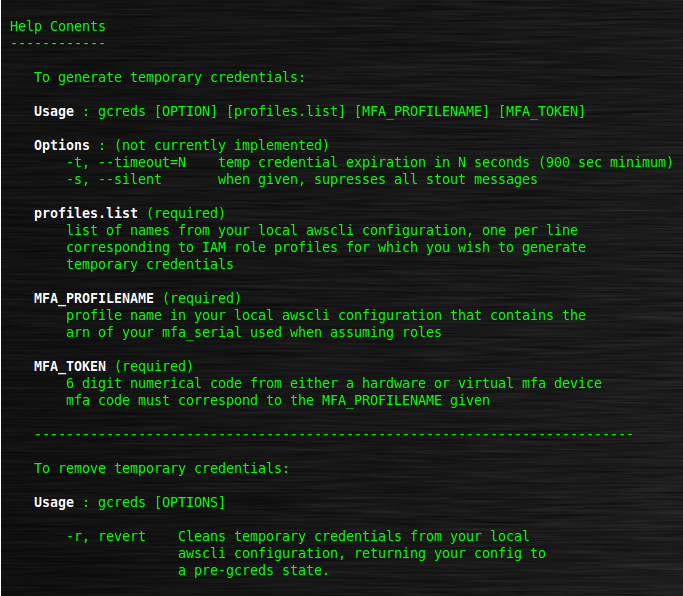
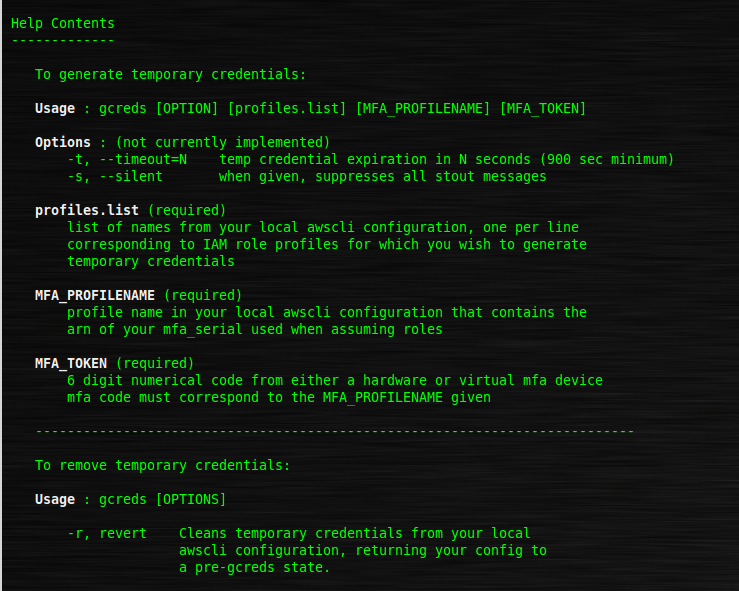
spell corrections

diff --git a/README.md b/README.md
@@ -1,4 +1,3 @@
-* * *
 # README :  gcreds (v1.0)
 * * *
 
@@ -38,6 +37,10 @@ Slack: [@blake](https://mpcaws.slack.com/team/blake)
 ## Usage ##
 
 Help Menu
+
+```bash
+    $ ./gcreds -h  
+```
 
 ![help-menu](./.images/help-menu.png)
 
